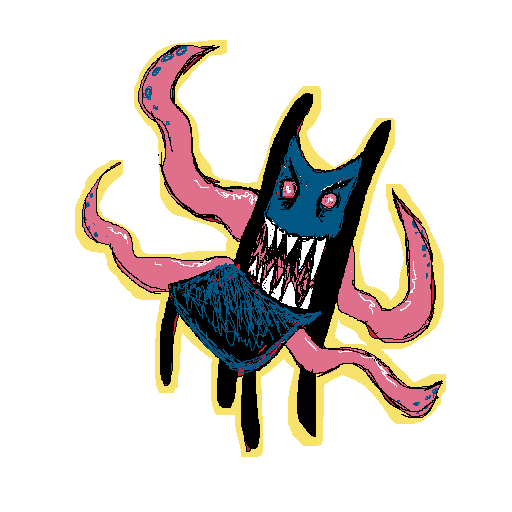
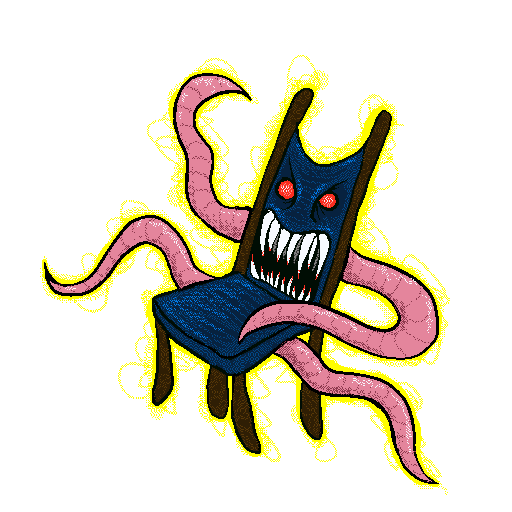
add updated art

diff --git a/src/components/DeathRoom.jsx b/src/components/DeathRoom.jsx
@@ -7,13 +7,13 @@ const DeathRoom = ({ currentRoom }) => {
   const [rotation, setRotation] = useState(0)
 
   useTick((dt) => {
-      i += 0.05 * dt
+    i += 0.05 * dt
     if (roomAlpha < 1) {
       const newAlpha = roomAlpha + i
       setRoomAlpha(newAlpha)
     }
-      const newRotation = rotation + i / 2
-      setRotation(newRotation)
+    const newRotation = rotation + i / 2
+    setRotation(newRotation)
   })
 
   useEffect(
@@ -26,18 +26,24 @@ const DeathRoom = ({ currentRoom }) => {
   return (
     <>
       <Sprite
-        image='./images/deathSpiral.png'
-        pivot={512}
-        x={256}
-        y={256}
+        image="./images/interactable.png"
+        width={512}
+        height={512}
+        tint={0x990000}
+      />
+      <Sprite
+        image="./images/deathSpiral.png"
+        pivot={1024}
+        x={270}
+        y={300}
+        scale={0.5}
         rotation={rotation}
       />
-    <Sprite
-      image={`./images/${currentRoom?.image}`}
-      alpha={roomAlpha}
-    />    
+      <Sprite
+        image={`./images/${currentRoom?.image}`}
+        alpha={roomAlpha}
+      />
     </>
-
   )
 }
 
